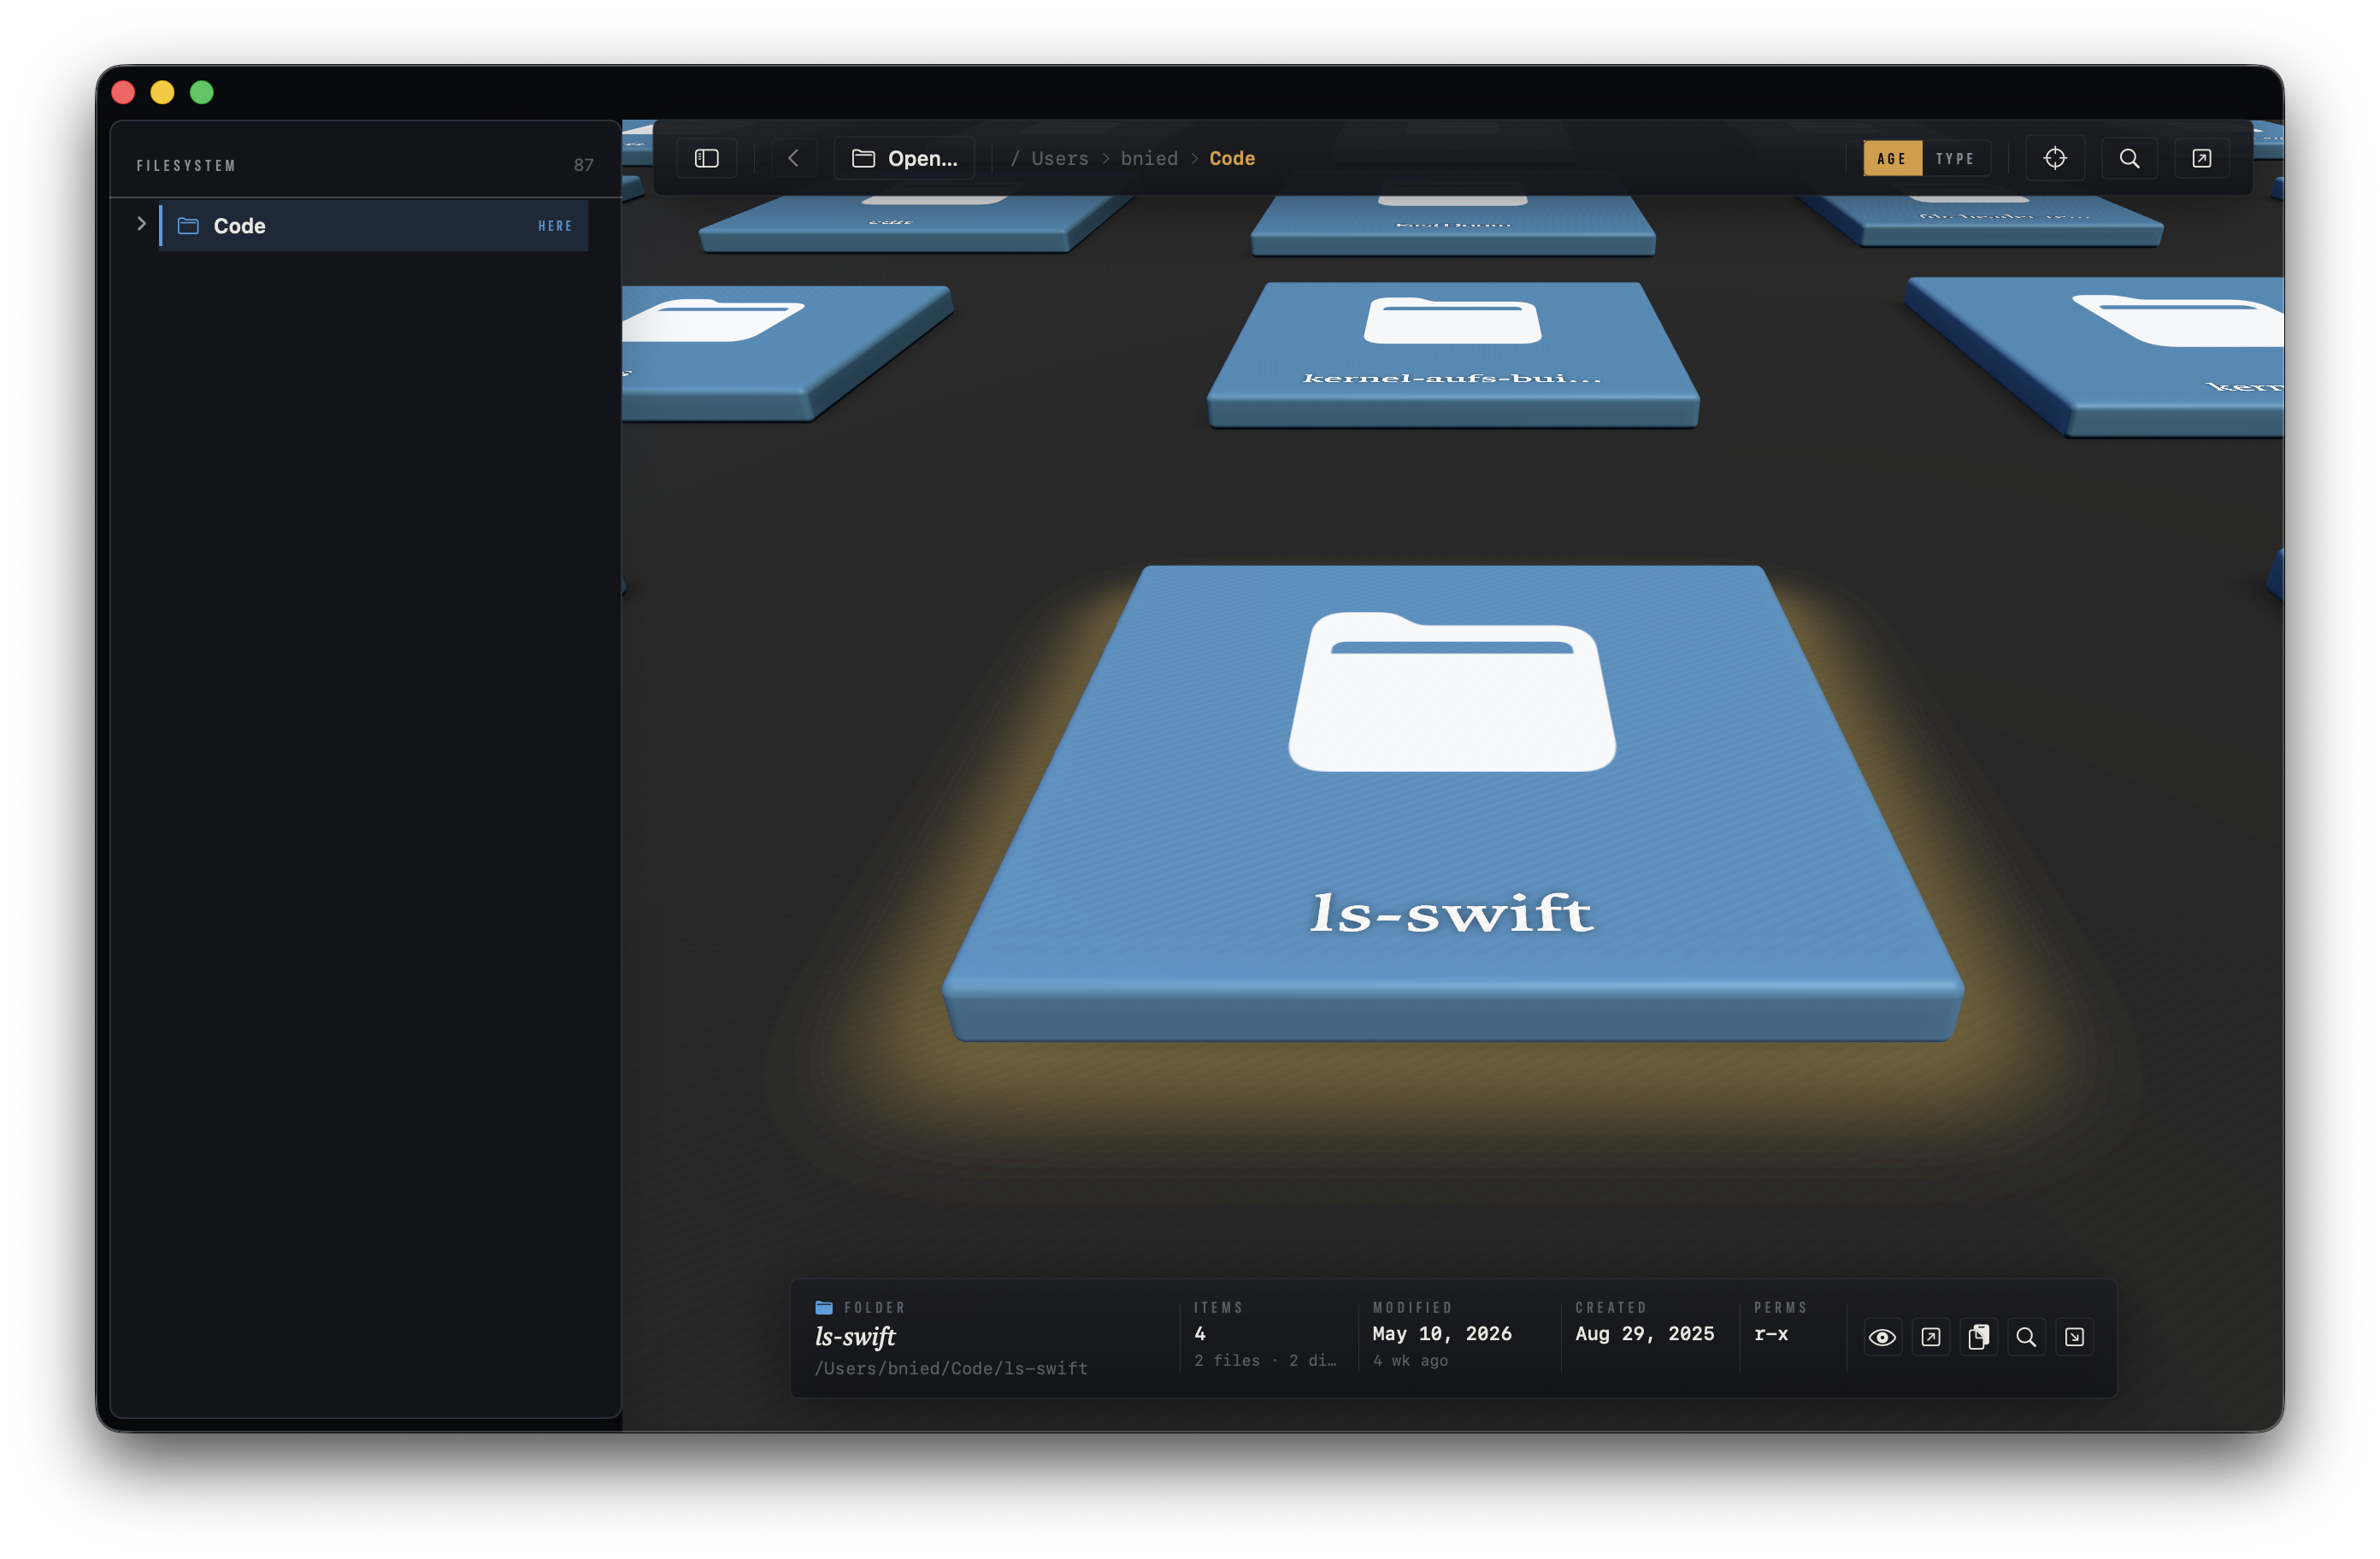
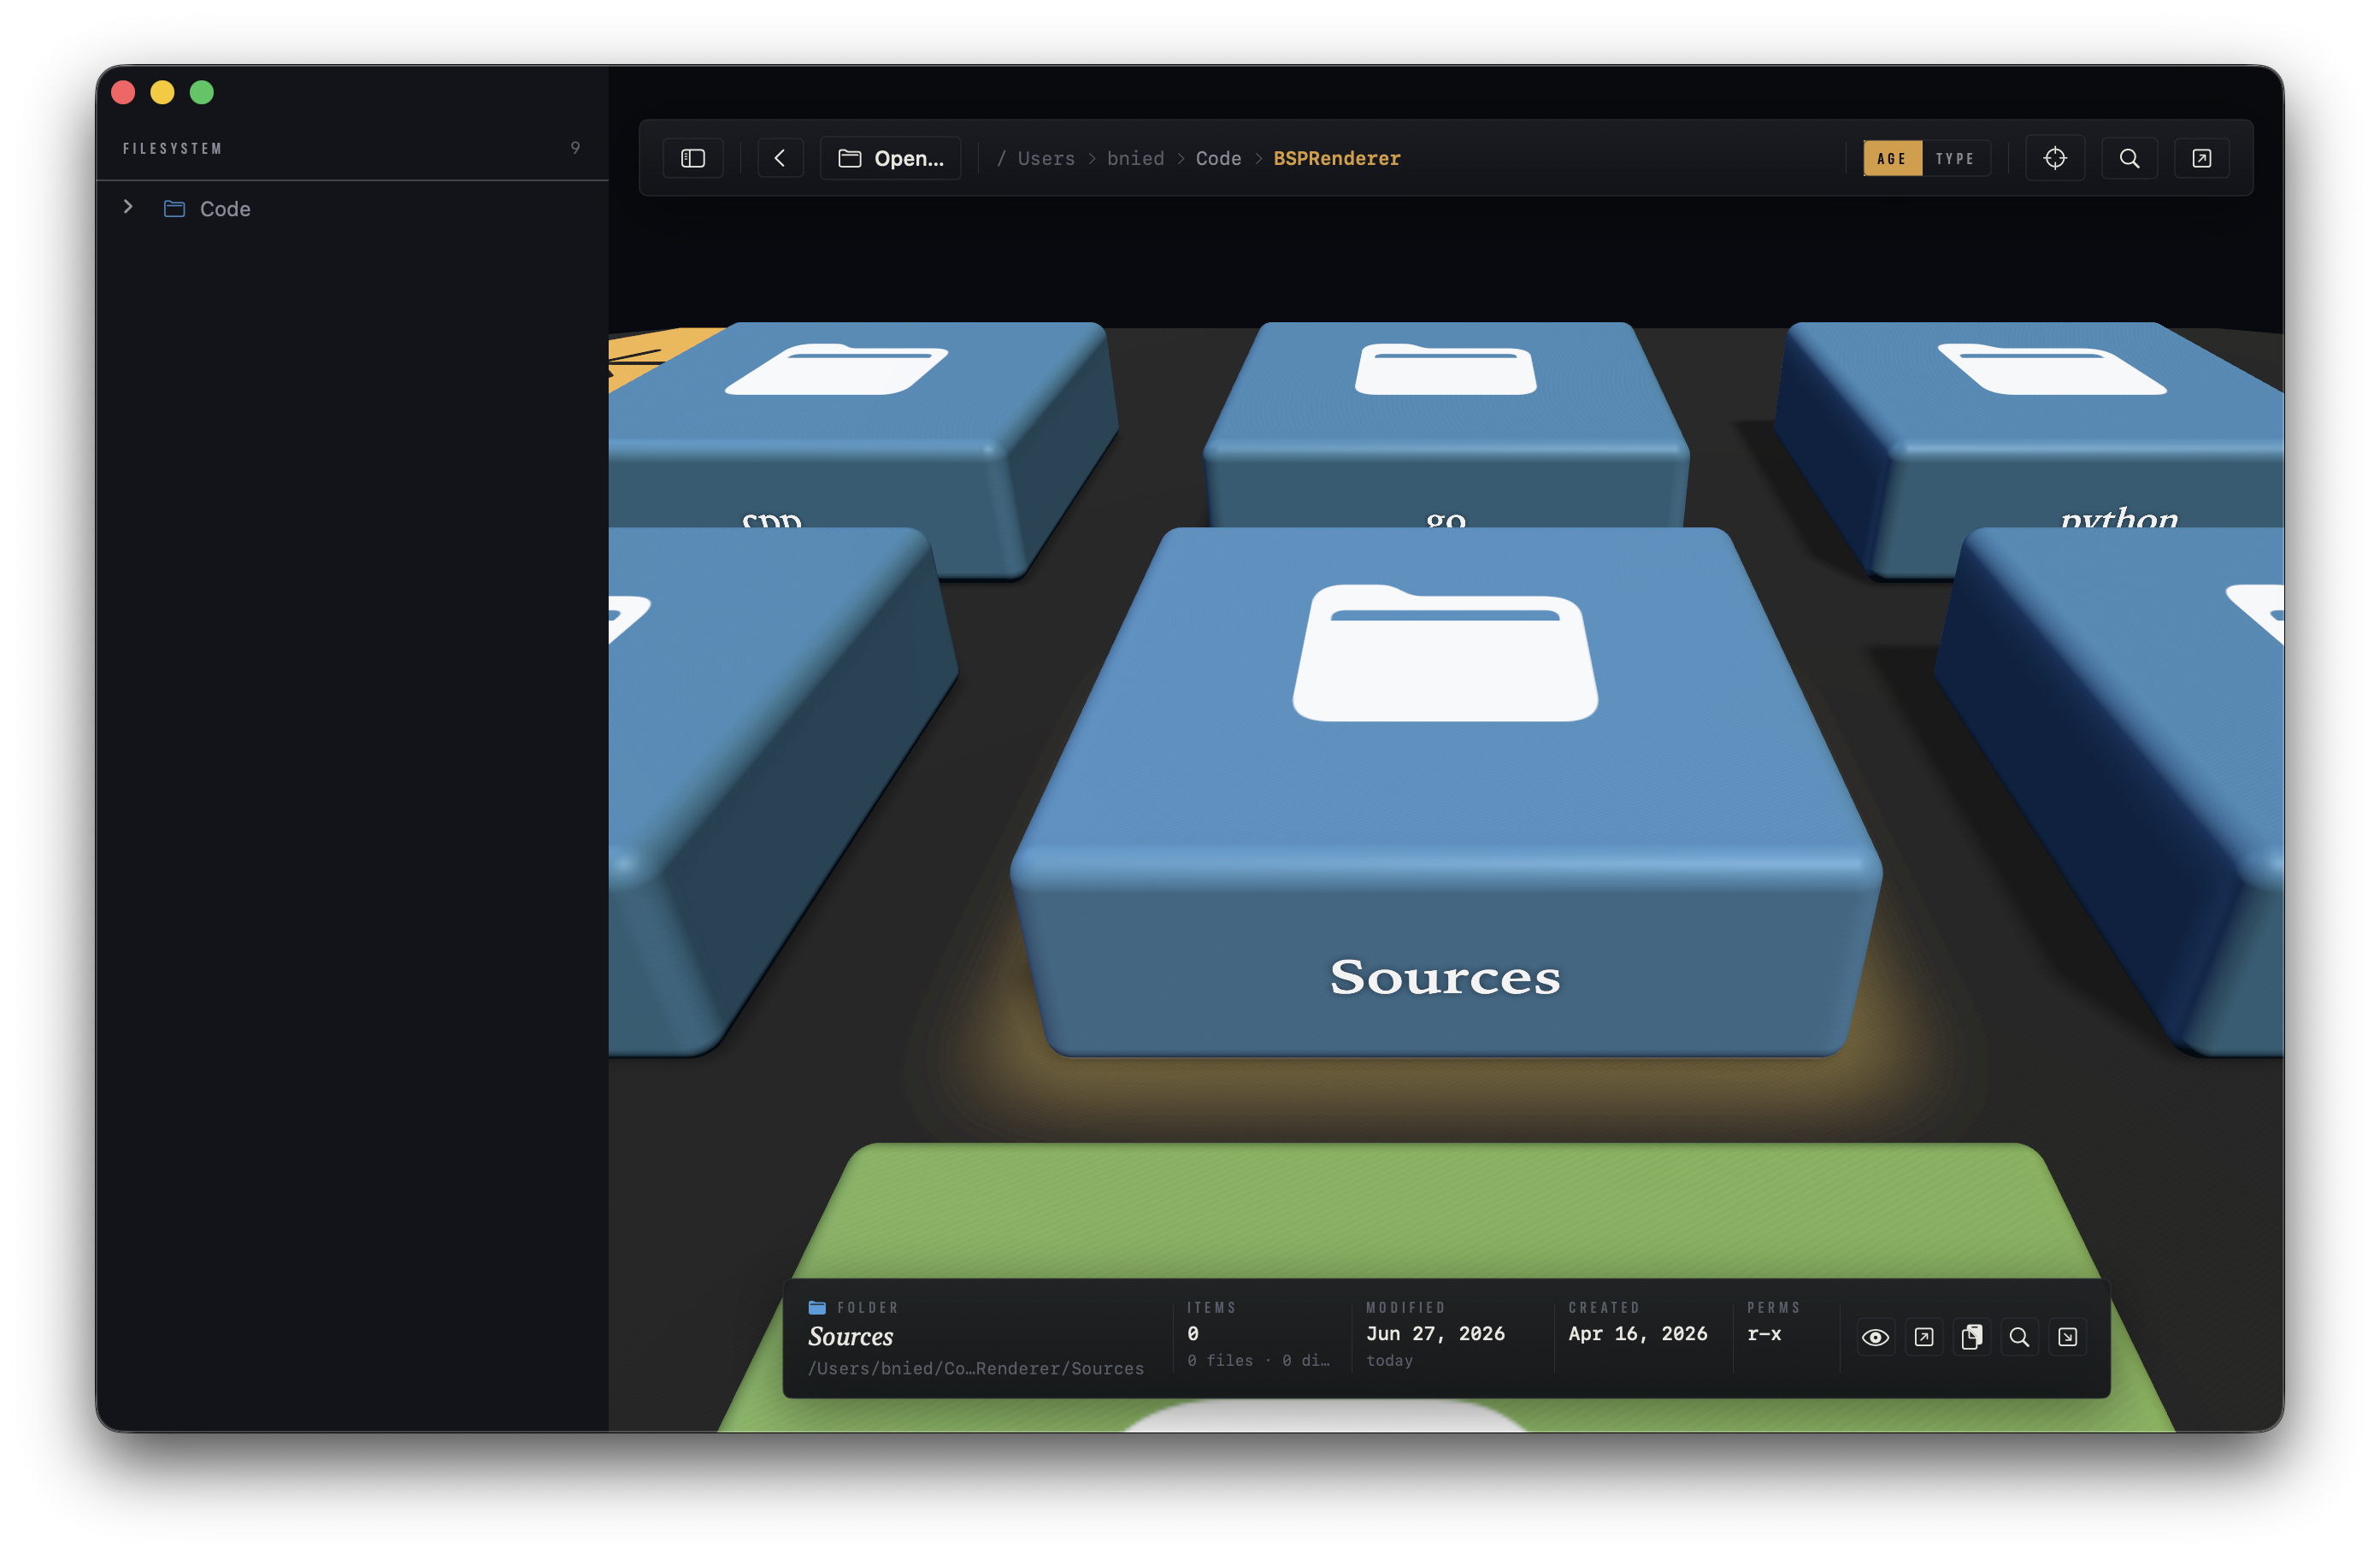
Refine 3D layout, fix floor anchoring, and make back button flush
• Grid layout & Sizing (SceneBuilder.swift):
   • Made the grid significantly tighter by reducing cellSize (2.2 -> 1.0), cellSpacing (1.0 -> 0.4), and fileBaseWidth (1.7 -> 1.0).
   • Removed subdirTileWidth, making all items (files and folders) render with a uniform, fixed footprint (fileBaseWidth).
   • Restored dynamic height scaling (slabHeight) for files based on their byte size, keeping the maximum height budget at 0.55.
   • Slimmed the floorThickness down from 0.5 to 0.15 for a less bulky presentation.
• SceneKit Extrusion Fixes (SceneBuilder.swift):
   • Fixed makeFloorPlate positioning to account for SCNShape's centered extrusion, ensuring the floor's top surface sits exactly at y = 0.
   • Redesigned the back button pad to sit perfectly flush with the floor. Tied its thickness to floorThickness and adjusted its chamferRadius (0.04) and Y-position so it blends seamlessly into the northwest corner without Z-fighting.
   • Fixed the back-arrow icon's floating issue by correctly resting it on the back pad's top face.
• Tests (SceneBuilderTests.swift):
   • Removed the subdirTileWidthGrowsWithCountAndClamps test, as width scaling was removed.
   • Restored the slabHeightClampsToBudget test to ensure dynamic heights clamp correctly to the layout budget.

diff --git a/neofsn/Scene/SceneBuilder.swift b/neofsn/Scene/SceneBuilder.swift
@@ -42,30 +42,30 @@ enum SceneBuilder {
     // them by the same readable gap. The selection ring is sized from each item's
     // own footprint (see `SceneHostView.moveSpotlight`), so the gap doesn't double
     // as a halo budget — it's purely breathing room between items.
-    static let cellSize: CGFloat = 2.2
-    static let cellSpacing: CGFloat = 1.0
-    static let fileBaseWidth: CGFloat = 1.7
+    static let cellSize: CGFloat = 1.0
+    static let cellSpacing: CGFloat = 0.4
+    static let fileBaseWidth: CGFloat = 1.0
     static let subdirPlatformHeight: CGFloat = 0.32
 
-    // Block-height budgets. Names are engraved on each item's camera-facing front
+    // Block heights. Names are engraved on each item's camera-facing front
     // edge (see `makeEdgeLabel`), so blocks are tall enough to give that rim room to
-    // read — and the taller range makes the log size-encoding read more dramatically,
-    // FSN-style. Capped so a tall block in front doesn't occlude its neighbors' faces.
+    // read.
     static let fileMaxHeight: CGFloat = 0.55        // root-level file slabs
 
-    /// Footprint of a subfolder tile, scaled (log) by how many items it holds so
-    /// fuller folders read as bigger. Clamped at the top so one dense folder can't
-    /// blow out the level grid. An empty folder is the same size as a file slab.
-    static func subdirTileWidth(itemCount: Int) -> CGFloat {
-        let scale = 1.0 + min(1.4, log10(Double(max(itemCount, 1))) * 0.7)  // 1.0× … 2.4×
-        return fileBaseWidth * scale
+    /// Map a file's byte size to a slab height on a log scale, clamped to `maxH`.
+    /// The floor (0.24) keeps even tiny files tall enough for a legible engraved rim;
+    /// the slope spreads the common KB–GB range across the height budget.
+    static func slabHeight(forSize size: Int64, max maxH: CGFloat) -> CGFloat {
+        let clamped = Swift.max(1, Double(size))
+        let h = log10(clamped) * 0.08
+        return CGFloat(Swift.min(Double(maxH), Swift.max(0.24, h)))
     }
 
     struct LayoutMetrics {
         let halfExtent: CGFloat
     }
 
-    static let floorThickness: CGFloat = 0.5
+    static let floorThickness: CGFloat = 0.15
 
     /// Build a self-contained "level" node for one folder: a finite floor plate with
     /// the folder's items laid out on top. The node is centered at its own origin
@@ -96,14 +96,8 @@ enum SceneBuilder {
 
         let cols = max(1, Int(ceil(sqrt(Double(max(items.count, 1))))))
         let rows = max(1, Int(ceil(Double(max(items.count, 1)) / Double(cols))))
-        // Folder tiles grow with their item count, so the grid step has to track the
-        // widest item on this level (a file is `fileBaseWidth`); otherwise a big
-        // folder would slop into its neighbors.
-        var maxItemWidth = fileBaseWidth
-        for case .subdir(let n) in items {
-            maxItemWidth = max(maxItemWidth, subdirTileWidth(itemCount: n.children.count))
-        }
-        let step = maxItemWidth + cellSpacing
+        // All items have fixed width `fileBaseWidth`.
+        let step = fileBaseWidth + cellSpacing
         let halfExtent = max(CGFloat(cols), CGFloat(rows)) * step / 2
 
         level.addChildNode(makeFloorPlate(halfExtent: halfExtent))
@@ -162,7 +156,7 @@ enum SceneBuilder {
     private static func makeBackNode(parentURL: URL, plateHalf: CGFloat, cornerRadius: CGFloat) -> SCNNode {
         // Big enough that its rounded NW corner can adopt the plate's corner radius.
         let size = max(fileBaseWidth, cornerRadius + fileBaseWidth * 0.6)
-        let height: CGFloat = 0.18   // a low pad, not a tower
+        let height: CGFloat = floorThickness   // flush with the floor
 
         // Square footprint whose top-left (→ world NW) corner matches the plate's
         // corner radius; the other corners get just a soft round.
@@ -171,7 +165,7 @@ enum SceneBuilder {
             blRadius: 0.05, brRadius: 0.05, trRadius: 0.05, tlRadius: cornerRadius
         )
         let geom = SCNShape(path: path, extrusionDepth: height)
-        geom.chamferRadius = 0.012
+        geom.chamferRadius = 0.04
         let mat = SCNMaterial()
         mat.lightingModel = .physicallyBased
         // Warm amber, distinct from blue folders and the file colors.
@@ -183,23 +177,24 @@ enum SceneBuilder {
         geom.firstMaterial = mat
 
         let node = SCNNode(geometry: geom)
-        // SCNShape lies in the XY plane extruding +Z; rotate -90° about X so it lies
-        // flat (footprint in XZ, height in Y), sitting on the floor (top at y = height).
+        // SCNShape lies in the XY plane extruding +Z. Its extrusion is centered.
+        // Rotate -90° about X so it lies flat (footprint in XZ, height in Y).
         node.eulerAngles = SCNVector3(-CGFloat.pi / 2, 0, 0)
-        // Seat it in the NW corner: its rounded NW corner becomes concentric with the
-        // plate's, so its west/north edges sit flush along the plate's edges.
+        // Seat it in the NW corner. Because extrusion is centered, positioning its center
+        // at -height / 2 + 0.001 places its top surface exactly flush at Y = 0.001
+        // (just a tiny bit above the floor plate to prevent Z-fighting).
         let center = -plateHalf + size / 2
-        node.position = SCNVector3(center, 0, center)
+        node.position = SCNVector3(center, -height / 2 + 0.001, center)
         node.name = "navup"
         node.fsPayload = NodePayload(url: parentURL, name: parentURL.lastPathComponent)
         node.castsShadow = true
 
         // Centered back-arrow on the top face. The pad is already rotated to lie flat,
         // so the glyph needs no rotation of its own; +Z in the pad's local frame is
-        // world-up, so nudge it just above the extruded top.
+        // world-up. The pad's top face is at local Z = height / 2.
         if let icon = makeBackIconNode(width: size * 0.42) {
             icon.eulerAngles = SCNVector3Zero
-            icon.position = SCNVector3(0, 0, height + 0.006)
+            icon.position = SCNVector3(0, 0, height / 2 + 0.006)
             node.addChildNode(icon)
         }
 
@@ -277,9 +272,11 @@ enum SceneBuilder {
 
         let node = SCNNode(geometry: shape)
         // SCNShape lies in the XY plane extruding +Z; rotate -90° about X so it lies
-        // flat (footprint in XZ, thickness in Y), then drop it so the top is at y = 0.
+        // flat (footprint in XZ, thickness in Y). Extrusion is centered around the local
+        // origin, so the top face is at local Z = floorThickness / 2.
+        // Drop it by floorThickness / 2 so the top surface sits exactly at world y = 0.
         node.eulerAngles = SCNVector3(-CGFloat.pi / 2, 0, 0)
-        node.position = SCNVector3(0, -floorThickness, 0)
+        node.position = SCNVector3(0, -floorThickness / 2, 0)
         node.name = "floor"
         node.castsShadow = true
         return node
@@ -420,8 +417,7 @@ enum SceneBuilder {
     /// Not drawing every nested file/folder is what keeps a deep tree cheap to
     /// build and render. The tile IS the named interactive node (click → descend).
     private static func makeSubdirNode(subdir: FileSystemNode) -> SCNNode {
-        // Footprint scales with how many items the folder holds.
-        let width = subdirTileWidth(itemCount: subdir.children.count)
+        let width = fileBaseWidth
         let height = subdirPlatformHeight
 
         let maxChamfer = max(0.001, height / 2 - 0.001)
@@ -784,15 +780,6 @@ enum SceneBuilder {
     }
 
     // MARK: - Size + age
-
-    /// Map a file's byte size to a slab height on a log scale, clamped to `maxH`.
-    /// The floor (0.24) keeps even tiny files tall enough for a legible engraved rim;
-    /// the slope spreads the common KB–GB range across the height budget.
-    static func slabHeight(forSize size: Int64, max maxH: CGFloat) -> CGFloat {
-        let clamped = Swift.max(1, Double(size))
-        let h = log10(clamped) * 0.08
-        return CGFloat(Swift.min(Double(maxH), Swift.max(0.24, h)))
-    }
 
     /// Dispatch to the requested color strategy for this slab.
     private static func colorForFile(_ file: FileSystemNode, mode: ColorMode) -> NSColor {

diff --git a/neofsnTests/SceneBuilderTests.swift b/neofsnTests/SceneBuilderTests.swift
@@ -32,16 +32,8 @@ struct SceneBuilderTests {
         #expect(color == FileKind.code.sceneColor)
     }
 
-    // MARK: - Layout math
 
-    @Test func subdirTileWidthGrowsWithCountAndClamps() {
-        let empty = SceneBuilder.subdirTileWidth(itemCount: 0)
-        let small = SceneBuilder.subdirTileWidth(itemCount: 10)
-        let huge = SceneBuilder.subdirTileWidth(itemCount: 1_000_000)
-        #expect(empty == SceneBuilder.fileBaseWidth)          // empty folder = file-sized
-        #expect(small > empty)                                // fuller reads bigger
-        #expect(huge == SceneBuilder.fileBaseWidth * 2.4)     // clamped at 2.4×
-    }
+    // MARK: - Layout math
 
     @Test func slabHeightClampsToBudget() {
         let budget = SceneBuilder.fileMaxHeight